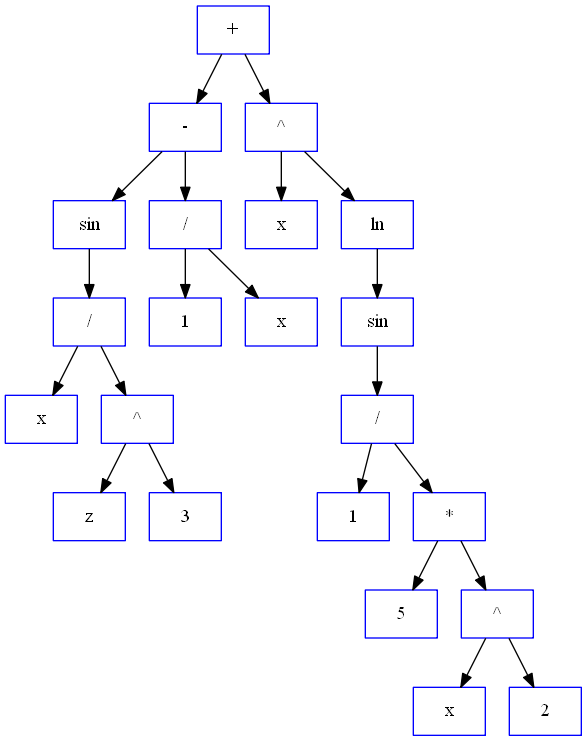
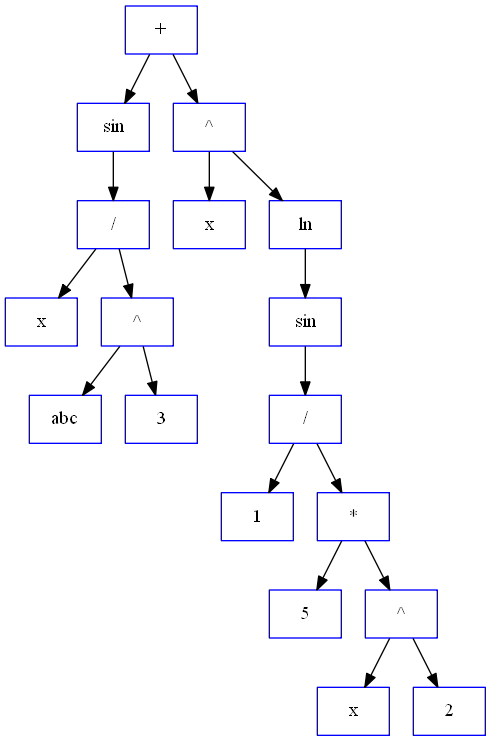
some fixes with particular differentiation

diff --git a/Diff/Diff.cpp b/Diff/Diff.cpp
@@ -251,6 +251,7 @@ Node *GetNumber (Tree *tree, const char *const currValue)
 
 #undef SPACE_SKIP
 
+
 #define  DEF_CMD(operator_, number, code)                   \
     else if (strcmp (#operator_, node->content) == 0)       \
      {                                                      \
@@ -1071,10 +1072,16 @@ char *getBuff (const char *_inputFileName, char **curVar)
 
 			*curVar = (char *) calloc (sizeof (char), strlen (buffPtr + strCounter) + 1);
 
+			while (isspace (buffPtr[strCounter]))
+				strCounter++;
+
+			int mob = 0;
+
 			while (buffPtr[strCounter] <= 'z' && buffPtr[strCounter] >= 'a')
 			{
-				(*curVar)[strCounter - VarBegin] = buffPtr[strCounter];
+				(*curVar)[mob] = buffPtr[strCounter];
 				strCounter++;
+				mob++;
 			}
 
 			return buffPtr;

diff --git a/Diff/main.cpp b/Diff/main.cpp
@@ -14,6 +14,7 @@ int main ()
 	GetTree (&begTree, buffer, curVar);
 
 	printTree (&begTree, outFilenameForDotPrint);
+
 	diffMain (&begTree, &diffTree, curVar);
 
 	destructTree (&diffTree);
